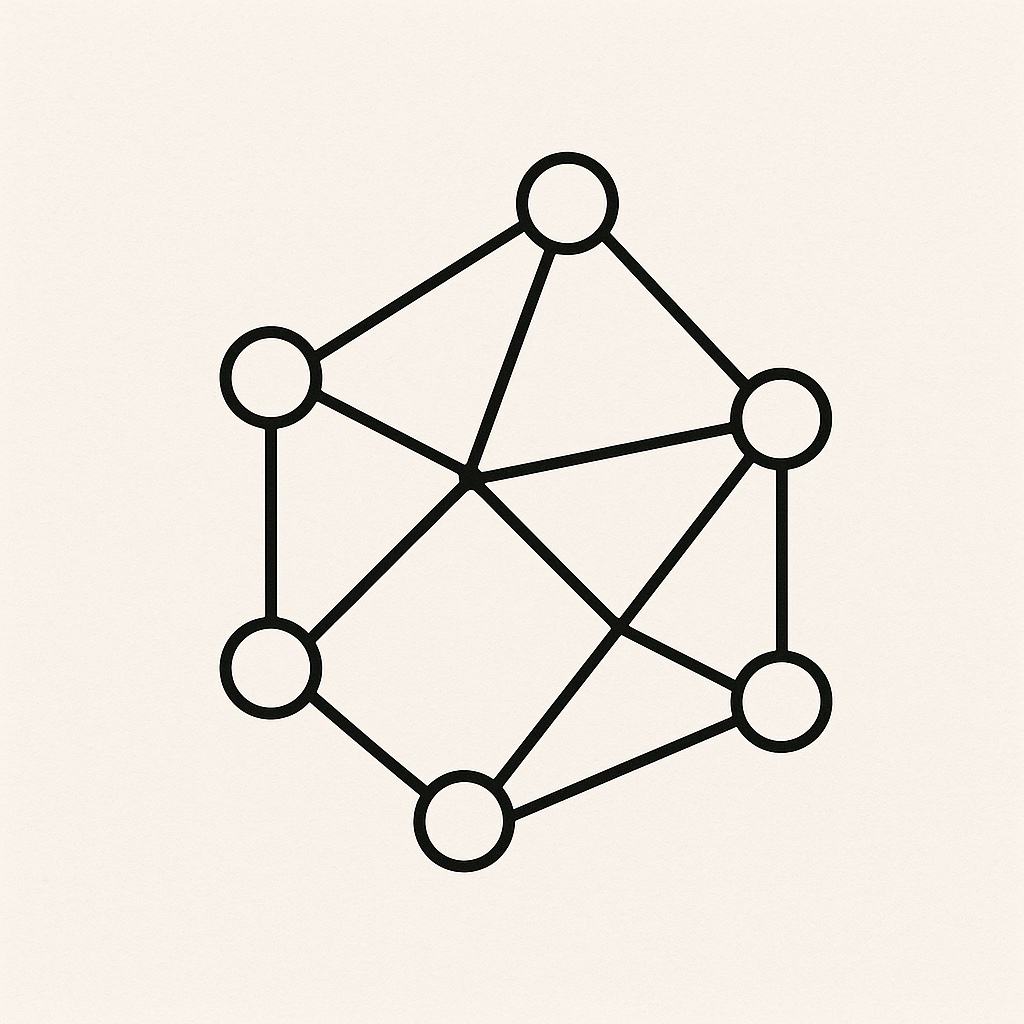
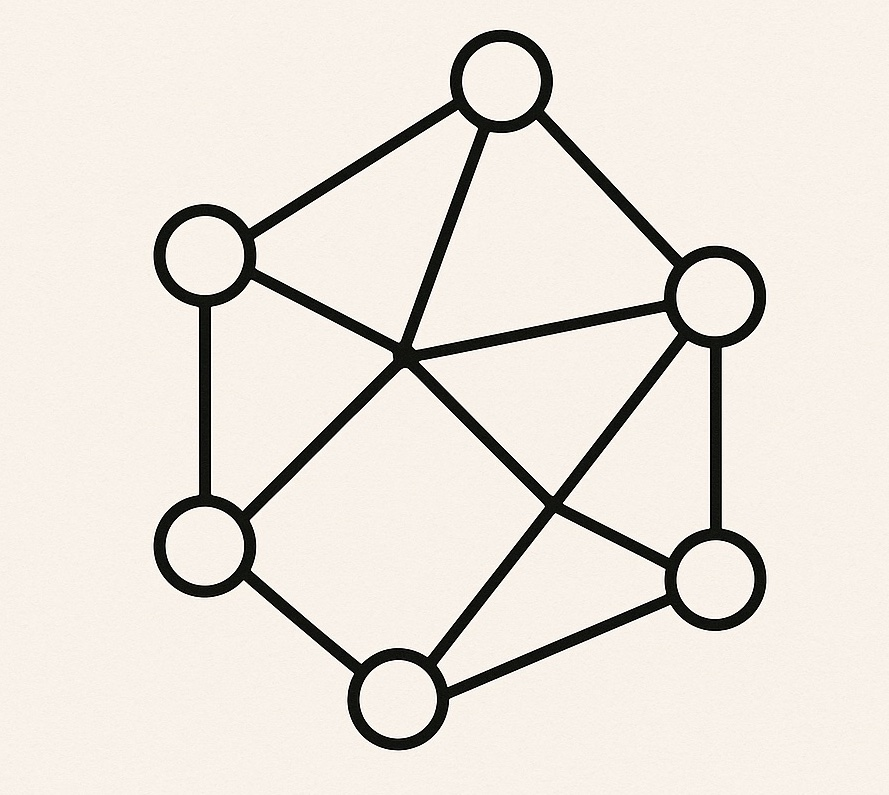
more updates

Changed region(s): [[0.1519, 0.0302, 0.8808, 0.966], [0.3341, 0.2717, 0.4252, 0.3321], [0.5467, 0.5434, 0.5771, 0.5736]]

diff --git a/projects/Floyd-Warshall.html b/projects/Floyd-Warshall.html
@@ -45,38 +45,29 @@
               <br>
               <h2 style="color:#12d640">Optimized and Parallelized Floyd-Warshall Algorithm for CPUs and GPUs</h2>
               <ul>
-                <li><strong>Skills & Tools</strong>: Verilog, AMD/Xilinx Vivado, Xilinx FPGA, 7-Segment Display, Digital Logic Design</li>
+                <li><strong>Skills & Tools</strong>: C, Nvidia CUDA, OpenMP, BU Shared Computing Cluster, Nvidia Tesla K40m</li>
                 <li><strong>Github URL</strong>: <a href="https://github.com/jedelist/ALU_Calculator" target="_blank">Project Link</a></li>
-                <li><strong>YouTube Video Demo</strong>: <a href="https://youtu.be/HjVlAyUau7E" target="_blank">Video Link</a></li>
-                <li><strong>Project PowerPoint</strong>: <a href="https://docs.google.com/presentation/d/13z5wgtebFeQxeys0NskuD5KInKZCcGRaRqS4RxtRTU0/edit?usp=sharing" target="_blank">Google Slide</a></li>
+                <li><strong>Project Write Up URL</strong>: <a href="https://drive.google.com/file/d/1vruKnuJIa777i5W6ul6we1PjSZiUkmr3/preview" target="_blank">Link</a></li>
+                <li><strong>Project Presentation URL</strong>: <a href="https://docs.google.com/presentation/d/13z5wgtebFeQxeys0NskuD5KInKZCcGRaRqS4RxtRTU0/edit?usp=sharing" target="_blank">Google Slide</a></li>
               </ul>
   
                 <p>
-                  This Arithmatic Logic Unit (ALU) Calculator takes three inputs: A - a 4 bit binary number, B - 4 a bit binary number, and 
-                  Opcode - 4 bit binary number that directs the ALU operations on A and B. The two-digit decimal 
-                  results were then displayed on the 7-segment FPGA display. The one-digit Opcode was displayed 
-                  in hexadecimal on the FPGA's left most 7-segment display. Finally, an overflow LED flag and reset button were implemented 
-                  on the FPGA.
-                               
+                  T             
                 </p>
                 <p>
-                  ALU Calculator.v: Serves as the main module utilizing finite state machine (fsm.v),
-                   clock_divider.v, binary coded decimal (BCD.v), and decoder.v. It provides computation results for all operations.
+                  B
                 </p>
                 <p>
-                  Clock Divider.v: Set the clock to oscillate at 1 kHz.
+                  B
                 </p>
                 <p>
-                  BCD.v: Converted the binary result into 4-bit BCD format (7-segment standard), so results could be displayed elegantly.
-
+                  B
                 </p>
                 <p>
-                  FSM.v: Rotates between 3 states at high frequency to display ALU calculator results on the FPGA's 7-segment display. 
-                  Used decoder file to resolve cathode and anode bit arrays for 7-segment displays.
+                  F
                 </p>
                 <p>
-                  ALU_tb.v: This was the testbench file, used to simulate the system and generate simulated waveform outputs. This testbench
-                  and waveforms were used to ensure the ALU Calculator was functioning as intended prior to synthesis in lab.
+                  A
                 </p>
             </div>
   

diff --git a/index.html b/index.html
@@ -120,7 +120,7 @@
             </div>
             <div class="col-lg-6">
               <ul>
-                <li><i class="icofont-rounded-right"></i> <strong>Cumulative GPA:</strong> 3.71/4.0</li>
+                <li><i class="icofont-rounded-right"></i> <strong>Cumulative GPA:</strong> 3.77/4.0</li>
                 <li><i class="icofont-rounded-right"></i> <strong>Phone:</strong> +1 (857) 328-3986</li>
               </ul>
             </div>
@@ -362,7 +362,7 @@
             <img src="assets/img/project/Floyd-Warshall.jpeg" class="img-fluid" alt="">
             <div class="portfolio-info">
               <div class="portfolio-links">
-                <a href="projects/SLIM_DUCKNet.html" data-gall="portfolioDetailsGallery" data-vbtype="iframe" class="venobox" title="Project Details"><i class="bx bx-info-circle"></i></a>
+                <a href="projects/Floyd-Warshall.html" data-gall="portfolioDetailsGallery" data-vbtype="iframe" class="venobox" title="Project Details"><i class="bx bx-info-circle"></i></a>
               </div>
             </div>
           </div>
